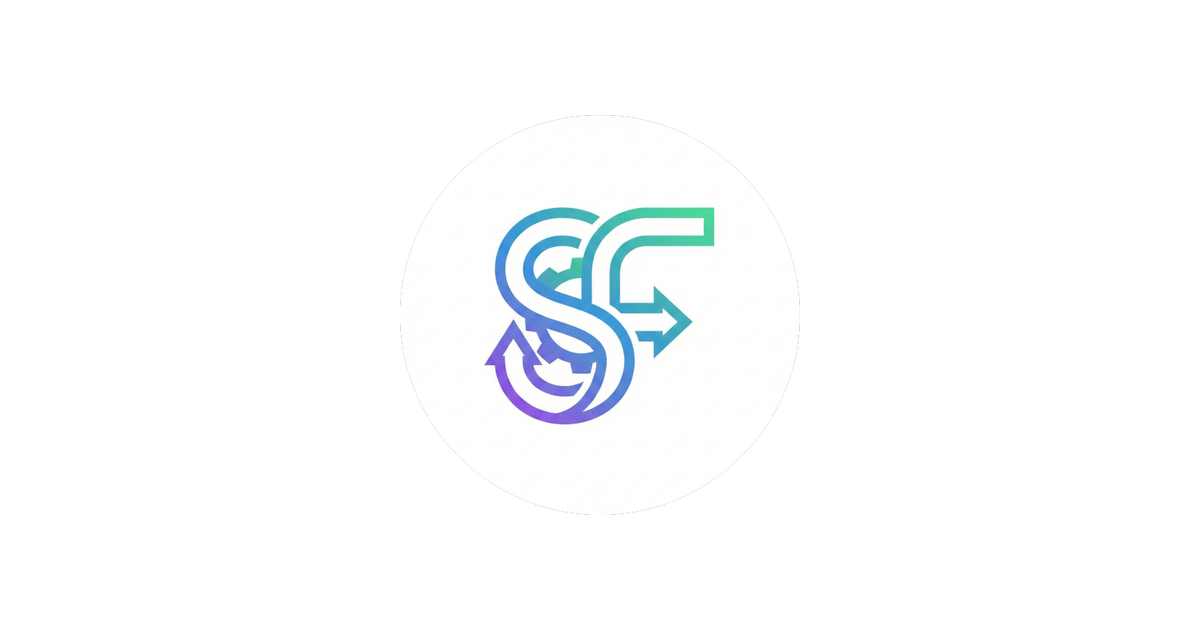
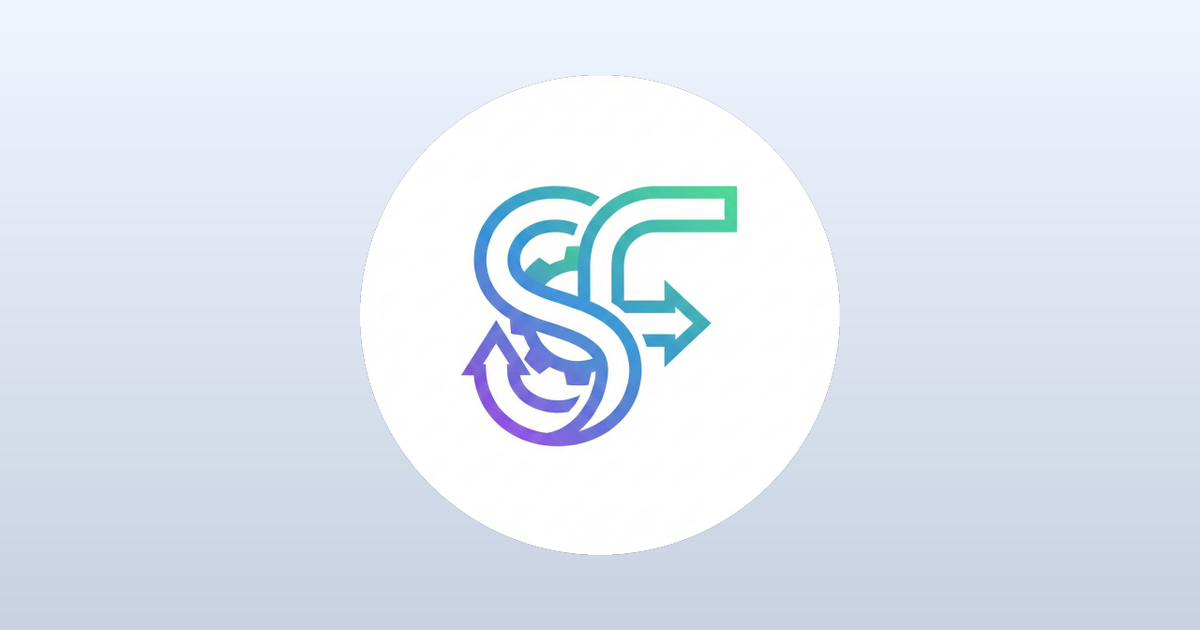
Improve OG image with gradient background and remove article-related fields

diff --git a/StringFunctions.BlazorApp/Models/PageMetadata.cs b/StringFunctions.BlazorApp/Models/PageMetadata.cs
@@ -9,8 +9,6 @@ public class PageMetadata
     public string ImageUrl { get; set; } = string.Empty;
     public string Type { get; set; } = "website";
     public string? Author { get; set; }
-    public DateTime? PublishedTime { get; set; }
-    public DateTime? ModifiedTime { get; set; }
     public List<string> Tags { get; set; } = [];
     
     // Schema.org structured data
